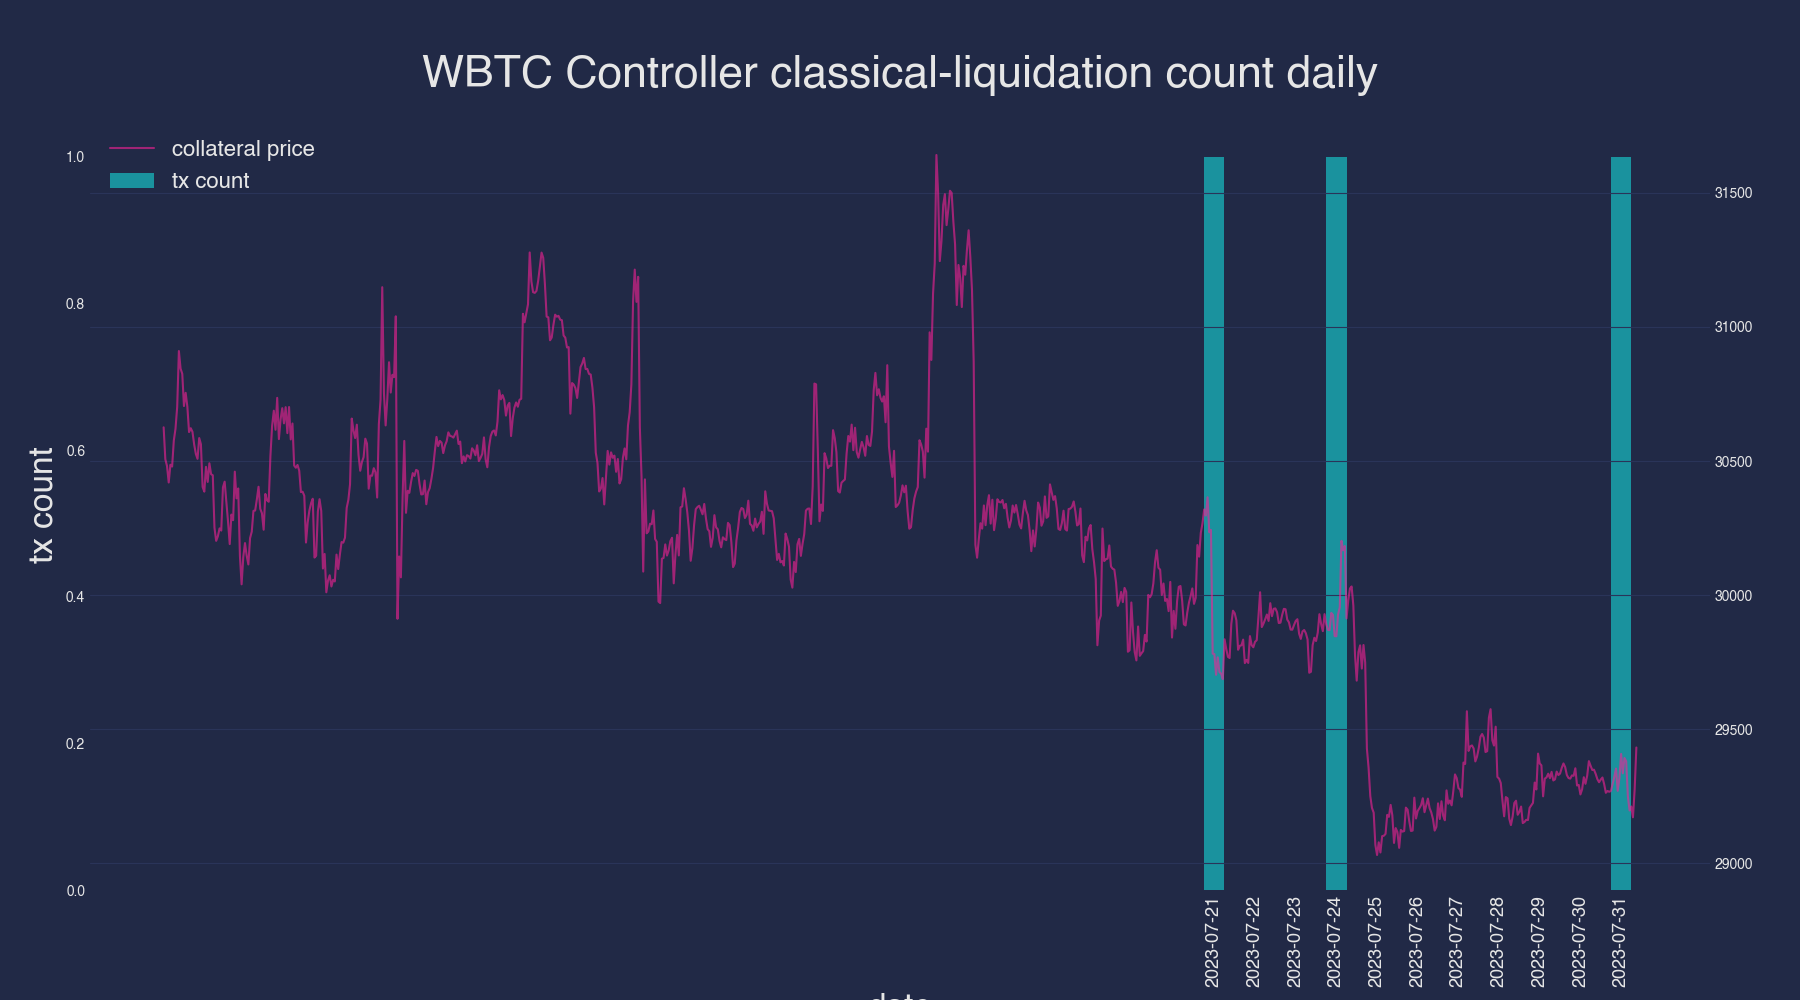
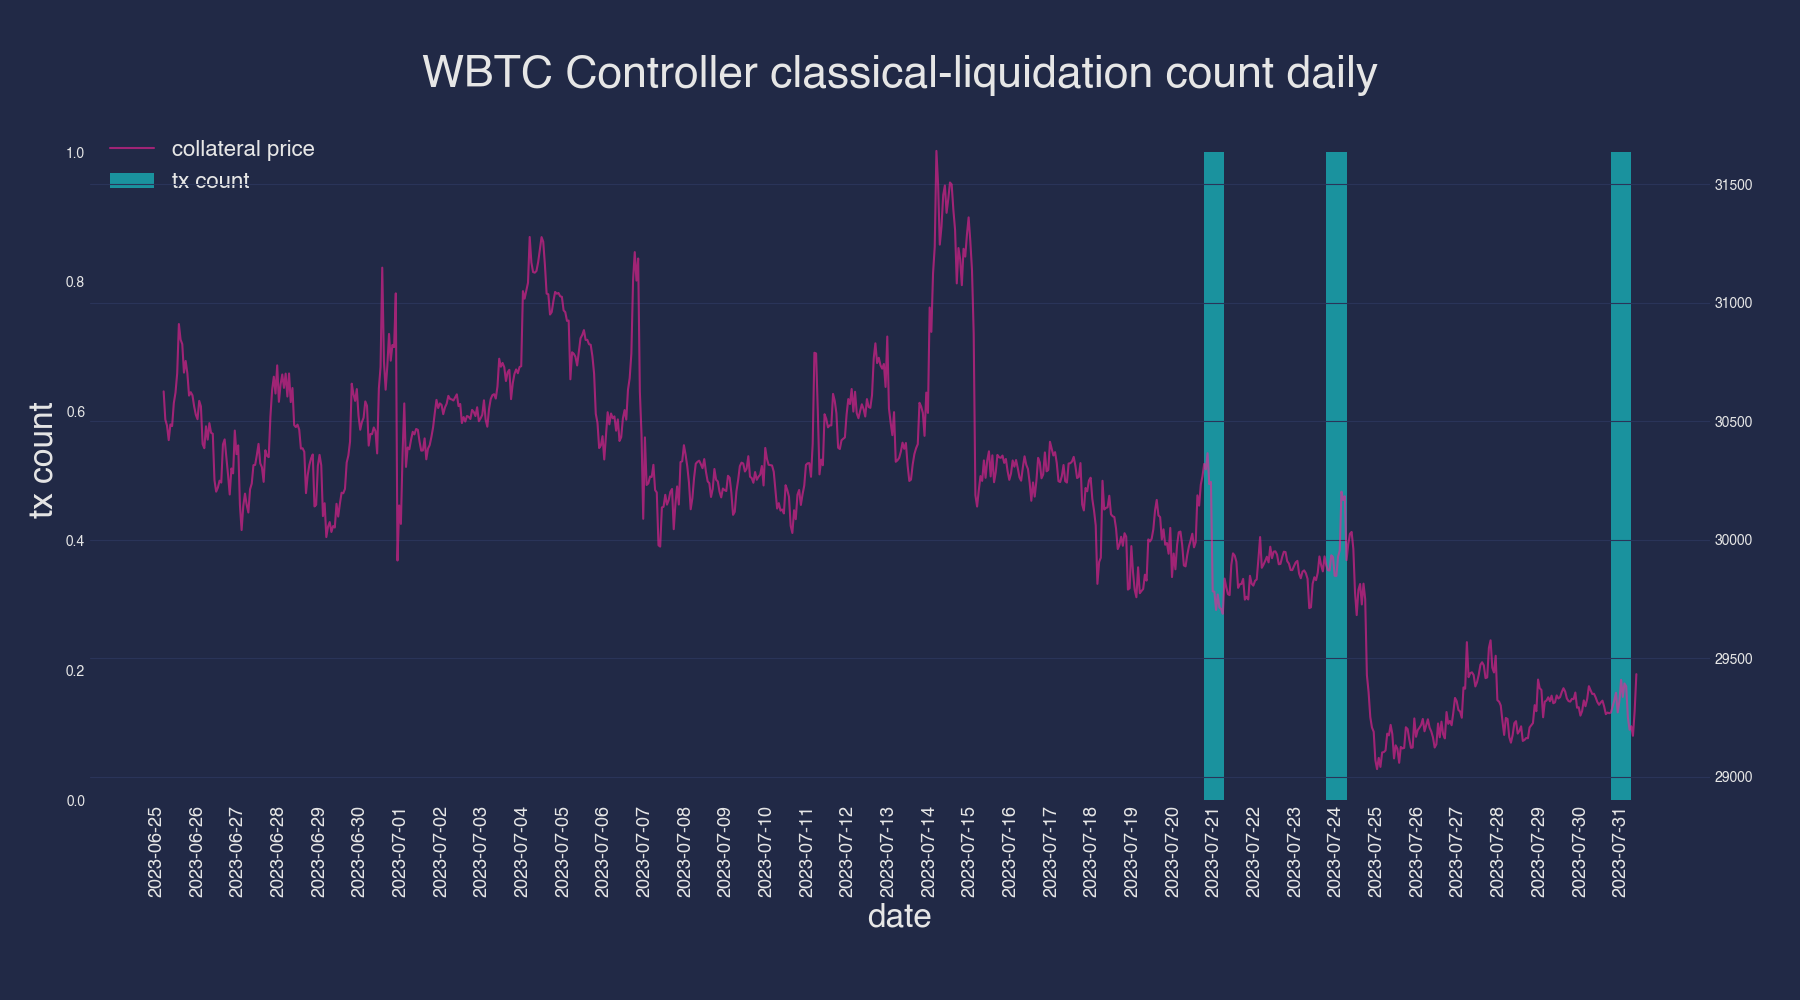
fix stat graph axis date fmt

diff --git a/crvusd_arbitrage_analytics/analytics/arbitrage_statistics.py b/crvusd_arbitrage_analytics/analytics/arbitrage_statistics.py
@@ -123,15 +123,6 @@ def draw_daily_stat(symbol, data_dir=DEFAULT_COINGECKO_PRICES_HISTORICAL_RAW_DIR
             gas_costs,
         ) = detailed_trades_stat_daily(token_symbol=symbol)
 
-        x_ticks = []
-        begin_xtick = counts_dates[0]
-        end_xtick = counts_dates[-1]
-        cur_xtick = begin_xtick
-        while cur_xtick <= end_xtick:
-            x_ticks.append(cur_xtick)
-            cur_xtick += timedelta(days=1)
-        x_ticks = [d.date() for d in x_ticks]
-
         prices_date = []
         prices = []
         end_i = len(raws)
@@ -141,6 +132,14 @@ def draw_daily_stat(symbol, data_dir=DEFAULT_COINGECKO_PRICES_HISTORICAL_RAW_DIR
                 break
         prices_date = [timestamp_to_date(int(item[0]) / 1000) for item in raws[:end_i]]
         prices = [item[1] for item in raws[:end_i]]
+
+        x_ticks = []
+        begin_xtick = prices_date[0].date()
+        end_xtick = prices_date[-1].date()
+        cur_xtick = begin_xtick
+        while cur_xtick <= end_xtick:
+            x_ticks.append(cur_xtick)
+            cur_xtick += timedelta(days=1)
 
         # counts
         _draw_daily_stat(
@@ -318,6 +317,9 @@ def _draw_daily_stat(
 
     plt.xticks(x_ticks, font={"size": 12}, rotation=90)
     ax1.set_xticklabels(x_ticks, font={"size": 13}, rotation=90)
+
+    # rotate the date labels
+    fig.autofmt_xdate(ha='center', rotation=90)
     plt.subplots_adjust(left=0.05, right=0.95)
     chart_elements = line1 + [bar1]
     ax1.legend(
@@ -766,7 +768,7 @@ def liquidations_stat_daily(token_symbol):
     )
 
 
-def draw_daily_stat(symbol, data_dir=DEFAULT_COINGECKO_PRICES_HISTORICAL_RAW_DIR):
+def draw_daily_liquidations(symbol, data_dir=DEFAULT_COINGECKO_PRICES_HISTORICAL_RAW_DIR):
     with open(data_dir.replace(".json", "_%s.json" % (symbol.lower())), "r") as f:
         raws = json.load(f)
         (
@@ -778,15 +780,6 @@ def draw_daily_stat(symbol, data_dir=DEFAULT_COINGECKO_PRICES_HISTORICAL_RAW_DIR
             stablecoin_receiveds,
         ) = liquidations_stat_daily(token_symbol=symbol)
 
-        x_ticks = []
-        begin_xtick = counts_dates[0]
-        end_xtick = counts_dates[-1]
-        cur_xtick = begin_xtick
-        while cur_xtick <= end_xtick:
-            x_ticks.append(cur_xtick)
-            cur_xtick += timedelta(days=1)
-        x_ticks = [d.date() for d in x_ticks]
-
         prices_date = []
         prices = []
         end_i = len(raws)
@@ -796,6 +789,14 @@ def draw_daily_stat(symbol, data_dir=DEFAULT_COINGECKO_PRICES_HISTORICAL_RAW_DIR
                 break
         prices_date = [timestamp_to_date(int(item[0]) / 1000) for item in raws[:end_i]]
         prices = [item[1] for item in raws[:end_i]]
+
+        x_ticks = []
+        begin_xtick = prices_date[0].date()
+        end_xtick = prices_date[-1].date()
+        cur_xtick = begin_xtick
+        while cur_xtick <= end_xtick:
+            x_ticks.append(cur_xtick)
+            cur_xtick += timedelta(days=1)
 
         # counts
         _draw_daily_stat(

diff --git a/scripts/3_statistics_data.py b/scripts/3_statistics_data.py
@@ -3,7 +3,7 @@ from analytics.arbitrage_statistics import (
     detailed_trades_stat_scatter,
     draw_daily_stat,
     detialed_trades_stat_dominance,
-    liquidations_stat_daily,
+    draw_daily_liquidations,
     sort_arbi_type_stack,
 )
 from utils.utils import make_dir, make_or_clean_dir
@@ -21,4 +21,4 @@ if __name__ == "__main__":
         detialed_trades_stat_dominance(collateral)
         detailed_trades_distribution(collateral)
         detailed_trades_stat_scatter(collateral)
-        liquidations_stat_daily(collateral)
+        draw_daily_liquidations(collateral)
